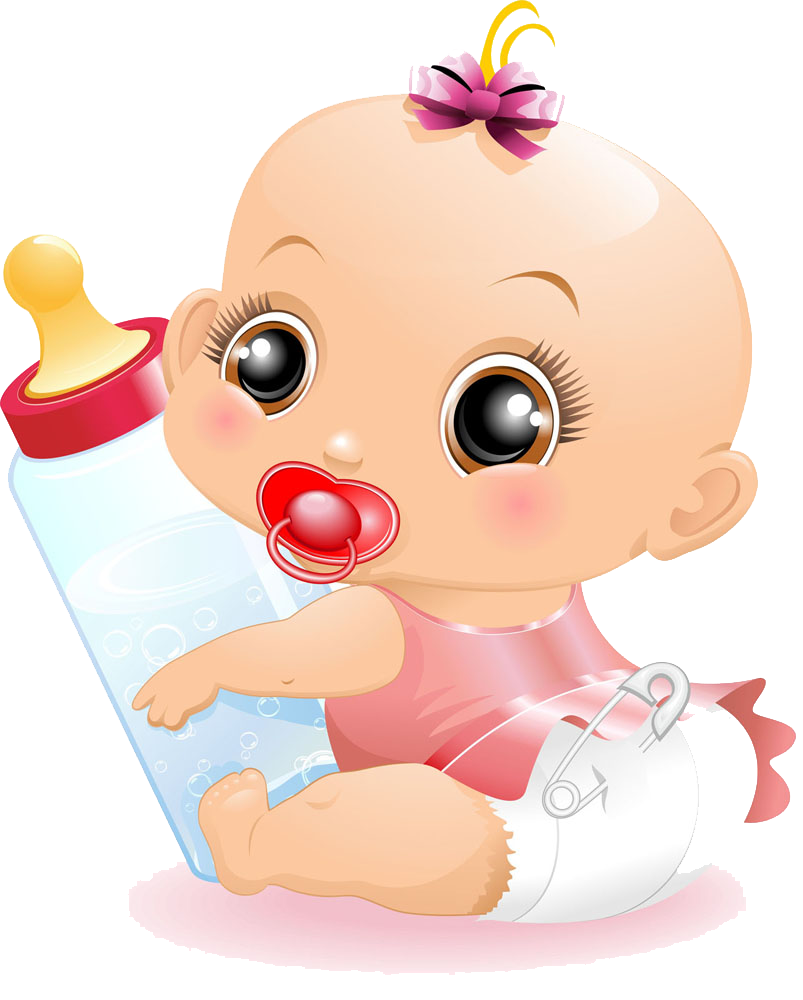
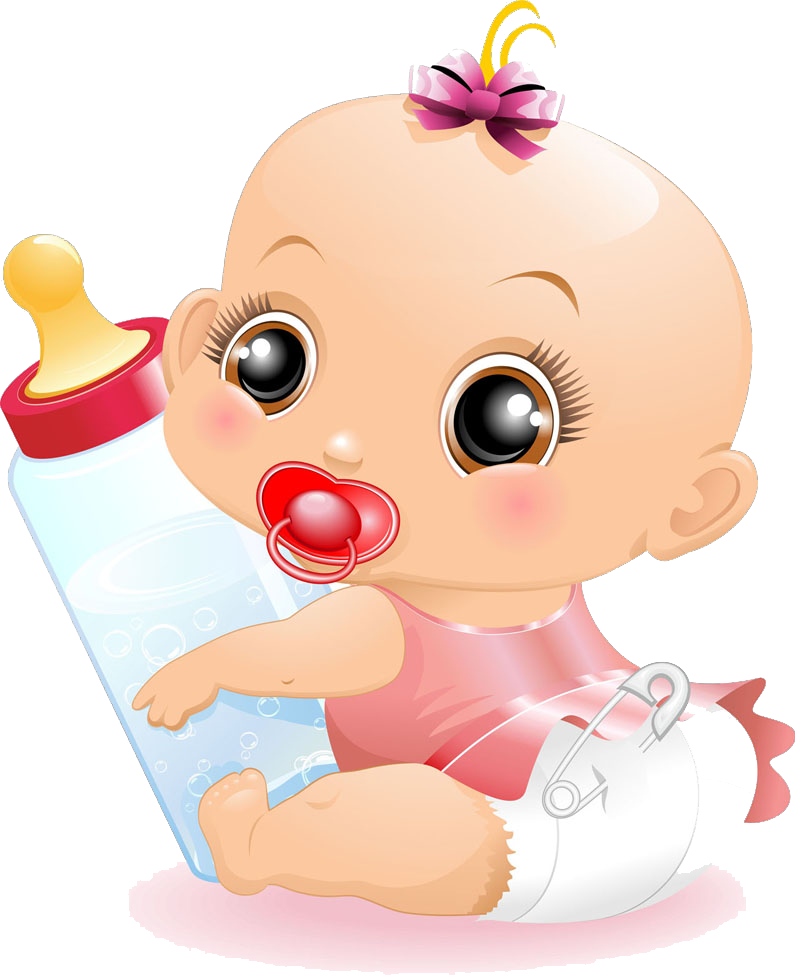
Add feed side option and resize images

diff --git a/src/App.vue b/src/App.vue
@@ -1,33 +1,30 @@
 <script setup>
-  import { reactive } from 'vue';
+  import { reactive, watch } from 'vue';
   import Button from 'primevue/button';
   import DataTable from 'primevue/datatable';
   import Column from 'primevue/column';
+  import RadioButton from 'primevue/radiobutton';
   import moment from 'moment';
 
   const trackingData = reactive(JSON.parse(localStorage.getItem('trackingData')) || []);
   const markPoo = () => {
-    let currentDate = new Date();
-    trackingData.push({ trackingType: 'Poo', timestamp: currentDate.valueOf() });
-    localStorage.setItem('trackingData', JSON.stringify(trackingData));
+    trackingData.push({ trackingType: 'Poo', timestamp: Date.now() });
   }
   const markPee = () => {
-    let currentDate = new Date();
-    trackingData.push({ trackingType: 'Pee',  timestamp: currentDate.valueOf() });
-    localStorage.setItem('trackingData', JSON.stringify(trackingData));
+    trackingData.push({ trackingType: 'Pee',  timestamp: Date.now() });
   }
   const markStartFeeding = () => {
-    let currentDate = new Date();
-    trackingData.push({ trackingType: 'Feed', timestamp: currentDate.valueOf(), endTimestamp: null });
-    localStorage.setItem('trackingData', JSON.stringify(trackingData));
+    trackingData.push({ trackingType: 'Feed', timestamp: Date.now(), endTimestamp: null });
   }
 
   const finishFeeding = (timestamp) => {
     const trackingIndex = JSON.parse(localStorage.getItem('trackingData')).findIndex(key => key.timestamp == timestamp);
     trackingData[trackingIndex].endTimestamp = Date.now();
-    localStorage.setItem('trackingData', JSON.stringify(trackingData));
   }
 
+  watch(trackingData, (newtrackingData) => {
+    localStorage.setItem('trackingData', JSON.stringify(newtrackingData));
+  })
 </script>
 
 <template>
@@ -49,16 +46,24 @@
         {{ moment(slotProps.data.timestamp).format('HH:mm (DD MMM)') }}
       </template>
     </Column>
-    <Column header="Action">
+    <Column header="">
       <template #body="slotProps">
         <div v-if="slotProps.data.trackingType == 'Feed'">
           <div v-if="slotProps.data.endTimestamp == null">
-            <Button label="Done" @click="finishFeeding(slotProps.data.timestamp)" />
+            <div class="flex align-items-center">
+            <RadioButton v-model="slotProps.data.feedSide" inputId="leftSide" name="feedSide" value="L" />
+            <label for="leftSide" class="ml-2">Left</label>
+          </div>
+          <div class="flex align-items-center">
+            <RadioButton v-model="slotProps.data.feedSide" inputId="rightSide" name="feedSide" value="R" />
+            <label for="rightSide" class="ml-2">Right</label>
+          </div>
+            <Button label="Finish" @click="finishFeeding(slotProps.data.timestamp)" />
           </div>
           <div v-if="slotProps.data.endTimestamp != null">
             {{
               Math.ceil(moment.duration((moment(slotProps.data.endTimestamp)).diff(moment(slotProps.data.timestamp))).asMinutes())
-            }} min
+            }} min  {{ (slotProps.data.feedSide != null) ?  `- ${slotProps.data.feedSide}` : '' }}
           </div>
         </div>
       </template>
